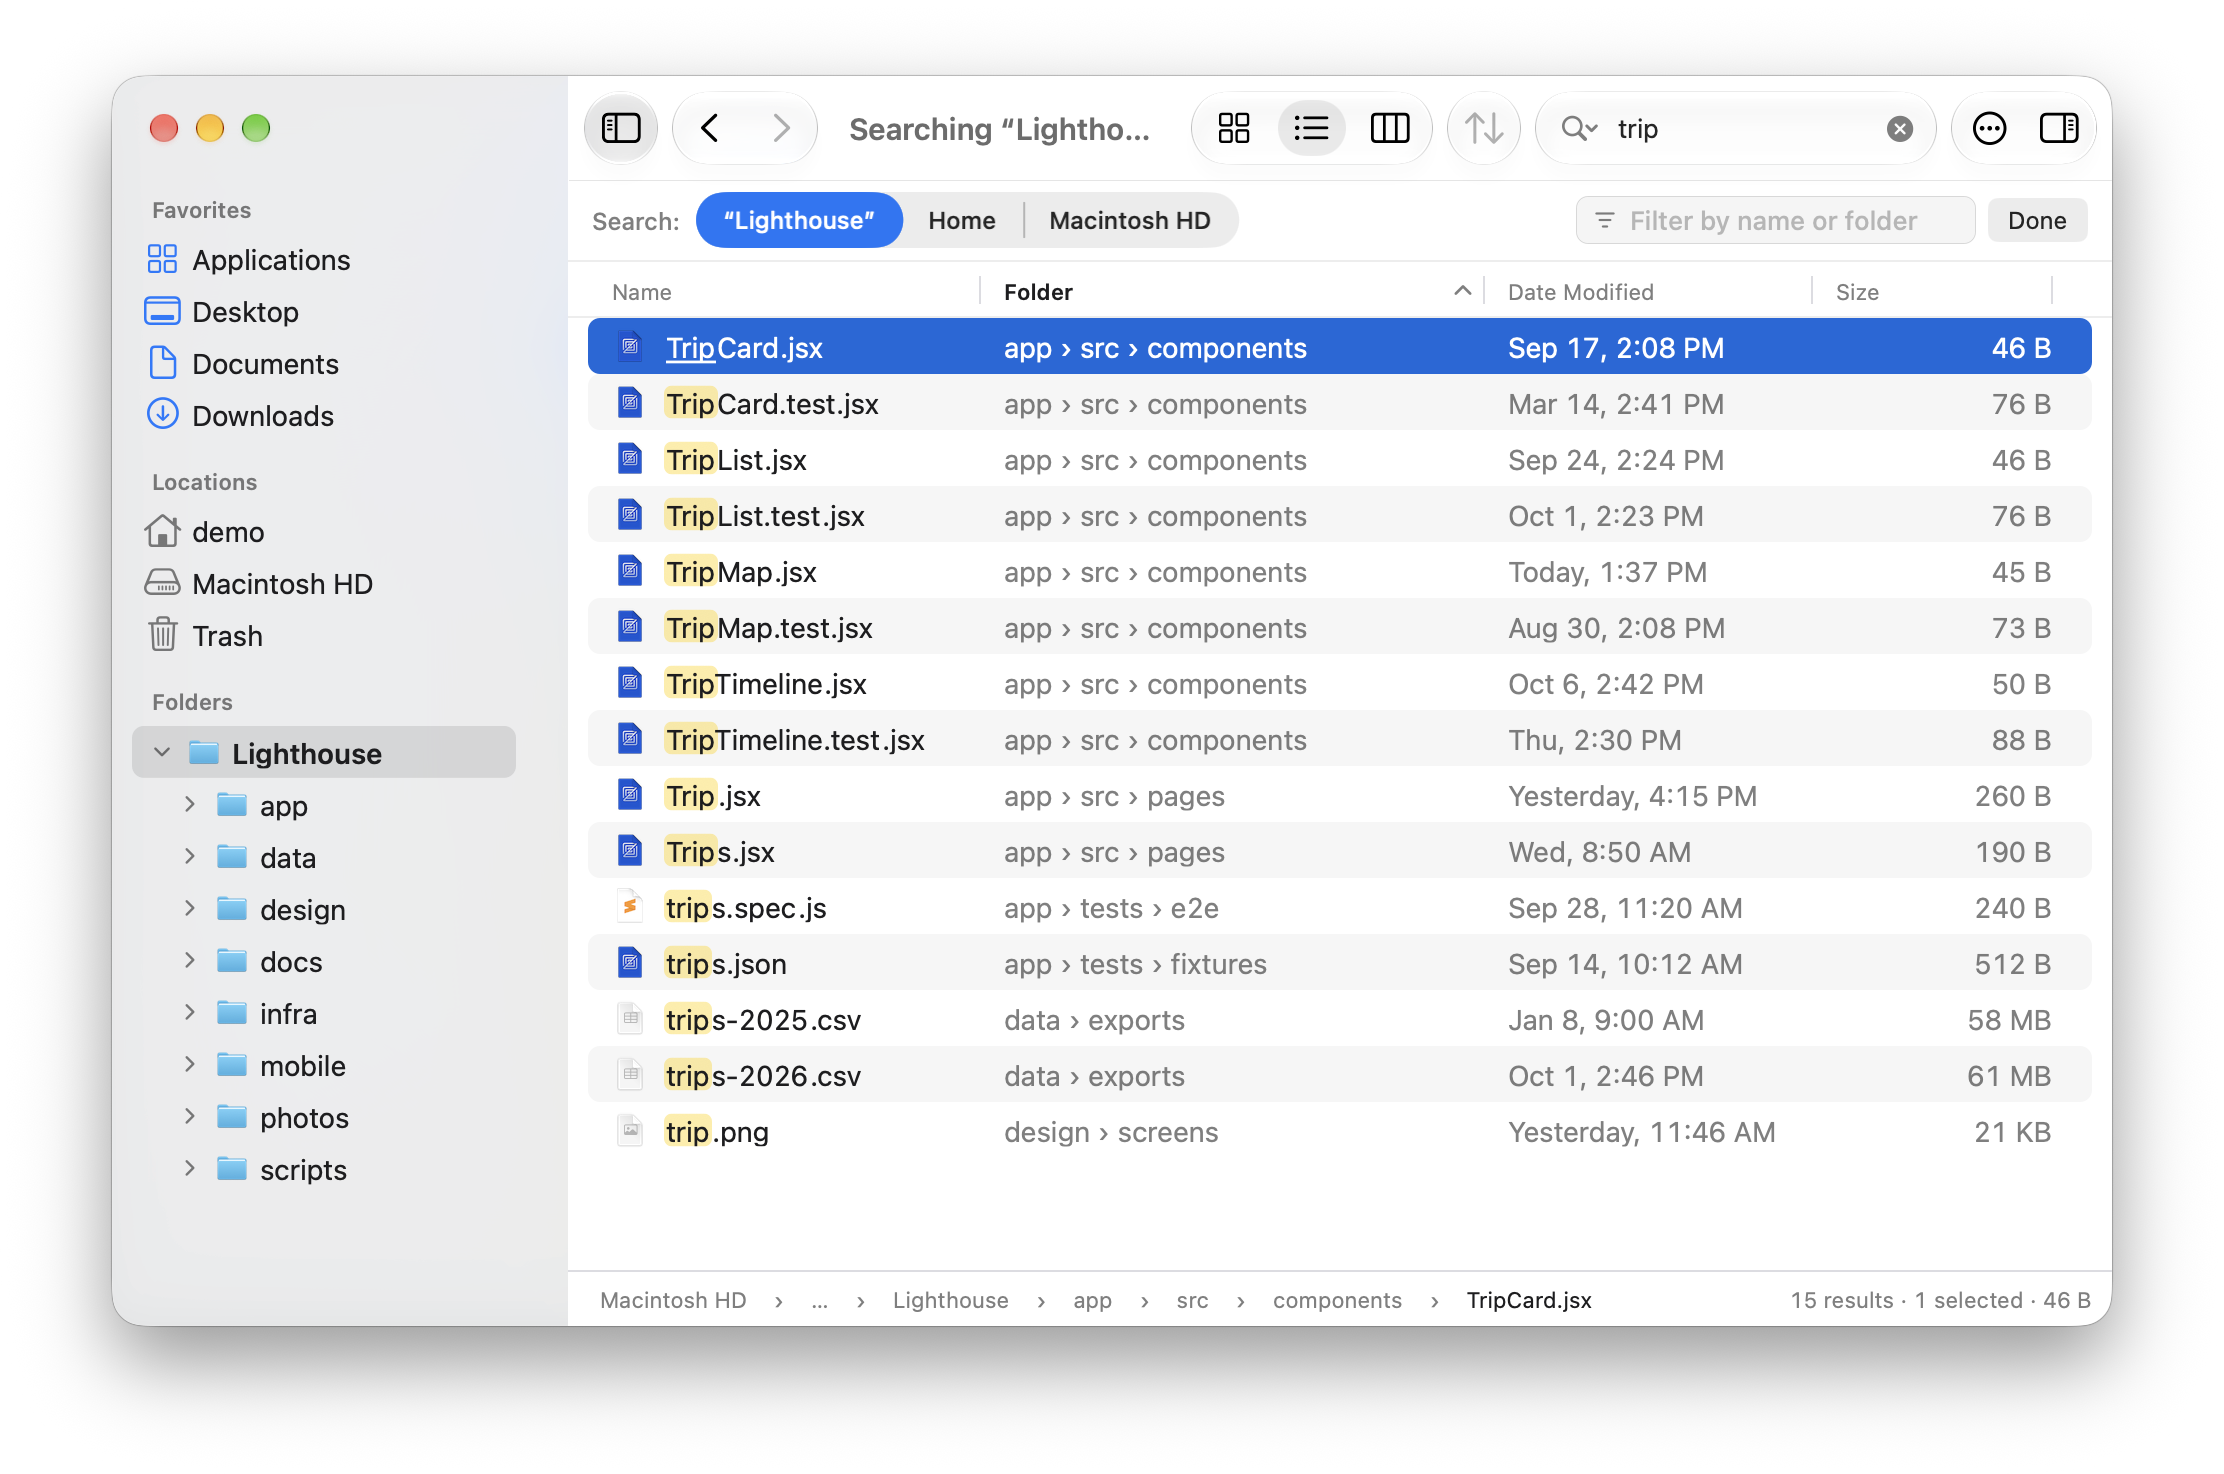
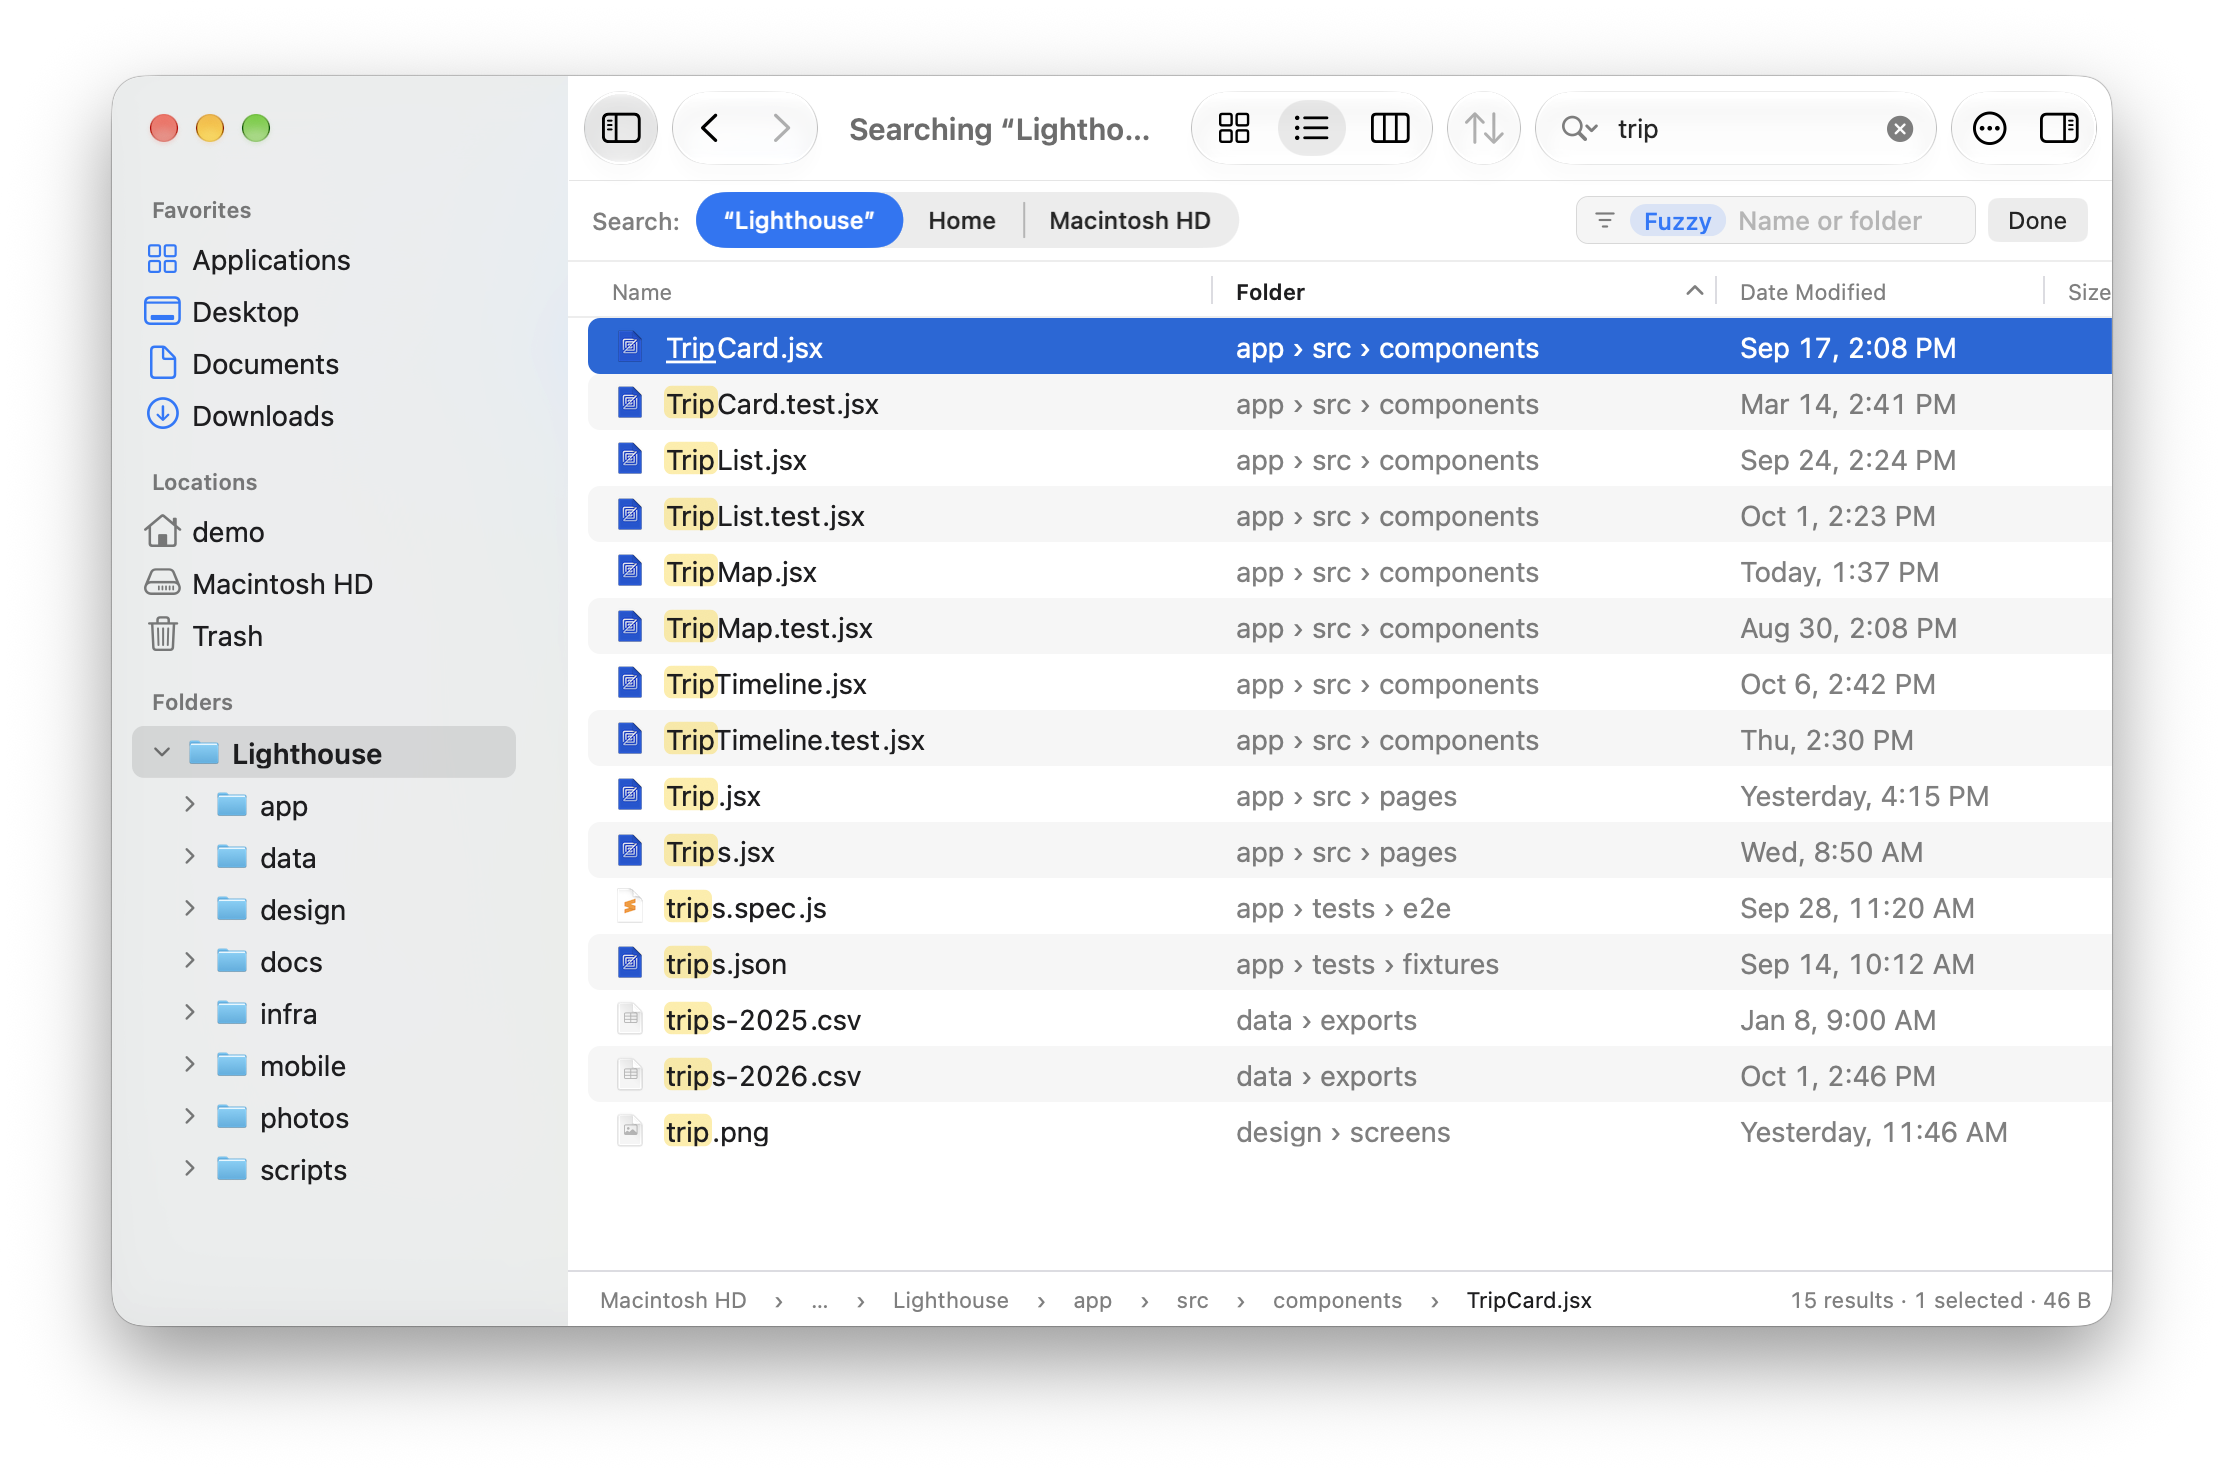
The README says how typing narrows a folder and how Plain Text search treats case and accents, with a screenshot of a fuzzy filter and the search screenshot taken again

diff --git a/README.md b/README.md
@@ -11,7 +11,7 @@ A Mac file browser with fast search, a real folder tree and true cut and paste. 
 - **Search that works, and is fast.** Results appear as you type, from the folder you are in, by name or full path, in plain text, glob or regex. There is no index to wait for, and nothing left out for not being indexed.
 - **A folder tree beside your files.** See where you are and what is around it, and open any folder's arrow to look inside without leaving.
 - **Cut and paste files.** ⌘X and ⌘V to move files. What you cut or copied stays marked until you paste it, and a paste never destroys anything: what it replaces goes to the Trash.
-- **Any folder in a few keystrokes.** ⌘K lists the folders you use most and finds any of them from a few letters. In a folder, start typing and the list narrows to the names that match.
+- **Any folder in a few keystrokes.** ⌘K lists the folders you use most and finds any of them from a few letters. In a folder, start typing and the list narrows to the names that have those letters in order.
 - **Keyboard first, with your keys.** Everything can be done from the keyboard, and every command can have a shortcut, two keys per command, that you choose. Only the keys every Mac app shares, like ⌘C, ⌘V, ⌘Z and ⌘Q, stay as they are.
 - **See what's taking the space.** Sort by size and every folder gets a bar, so the big ones stand out at a glance.
 - **Fast in big folders, and never stuck.** Scrolling stays smooth with thousands of files, and a slow or unresponsive disk never freezes the window.
@@ -23,8 +23,8 @@ Switching costs nothing. File Trail keeps most of Finder's shortcuts, Quick Look
 
 Finder hands search to Spotlight: by default it searches the whole Mac, it leaves out hidden and system files and anything excluded in Spotlight's settings, and matching a pattern means writing a raw Spotlight query. In File Trail, type in the search field and results appear as you type: everything under the folder you are in, each with the folder it lives in.
 
-- **Plain text by default.** Switch to glob (`*.test.ts`) or regex when you need a pattern, and match against the name or the full path.
-- **Widen or narrow without starting over.** One click moves the search from this folder to Home or the whole disk. The filter field trims what was found, by name or by folder, without searching again.
+- **Plain text by default.** Case doesn't matter, and a plain letter finds its accented forms: `resume` finds Résumé. Switch to glob (`*.test.ts`) or regex when you need a pattern, and match against the name or the full path.
+- **Widen or narrow without starting over.** One click moves the search from this folder to Home or the whole disk. The filter field trims what was found, by name or by folder, without searching again. A search stops at 50,000 results.
 - **Results in any view.** Icons, List or Compact List, with columns of their own that you choose and sort.
 - **It knows about Git.** Inside a repository, search can leave out `.git` and whatever `.gitignore` excludes, so build output stays out of the results.
 - **Nothing to set up.** Search runs on a bundled copy of [`fd`](https://github.com/sharkdp/fd). There is no index to build and nothing to install.
@@ -57,10 +57,14 @@ In Finder, moving files with the keyboard means ⌘C and then ⌥⌘V, and nothi
 </p>
 
 - **Go To (⌘K)** lists the folders you use most lately, with your favorites, and finds any folder you have opened from a few letters of its name. The folders you go to often come first, the way a browser's address bar ranks the sites you visit. Start with `/` or `~` to type a path, and Tab completes it.
-- **Type in the file list** to narrow it to the names containing what you typed. There is no field to click first: the best match is selected, Backspace edits what you typed, and Esc brings the rest back. Press ⌘F and the same text becomes a search of the subfolders.
+- **Type in the file list** to narrow it. A name is kept when it has the letters you type in that order, so `trptl` finds TripTimeline.jsx, and the letters it matched are marked. The chip in the filter's pill says Fuzzy; click it for Contains, which keeps only the names with the letters side by side (Settings → Browsing has the same choice). There is no field to click first: the best match is selected, Backspace edits what you typed and ⌥⌫ takes back a word, and Esc brings the rest back. Press ⌘F and the same text becomes a search of the subfolders.
 - **The path bar** is more than a label: click a folder to jump to it, click a `›` to see the folders at that level, or double-click the bar to edit the path as text.
 - **Back and Forward** remember more than one step. Hold either button to pick from the folders it leads to.
 - **The Go menu** has Home, Documents, Desktop, Downloads, Library, Macintosh HD, Applications and the Trash, like Finder's, each on a shortcut you choose.
+
+<p align="center">
+  <img src="docs/screenshots/filter.png" alt="A folder of components narrowed by typing trptl to TripTimeline.jsx and its test, the matched letters marked, with the filter pill saying Fuzzy and 2 of 14" width="900">
+</p>
 
 ## Keyboard first
 

diff --git a/docs/fuzzy-filter-plan.md b/docs/fuzzy-filter-plan.md
@@ -60,7 +60,7 @@ done this file is deleted and `docs/decisions.md` keeps what it decided.
       state's Search Subfolders button sat at the left of the Compact List in the phase 1 check: put it under the text.
 - [ ] **5. Space and ⌘Y.** The Space rule above (done); ⌘Y added to Quick Look's defaults (waits on the owner: it
       changes about 320 cases of three goldens a task didn't name, see the Log).
-- [ ] **6. README and screenshots.** The README says how typing filters now (letters in order, the marks, the mode
+- [x] **6. README and screenshots.** The README says how typing filters now (letters in order, the marks, the mode
       chip, Settings → Browsing) and that Plain Text search finds accented names from plain letters. A new README
       screenshot, `docs/screenshots/filter.png`, shows a fuzzy filter typed in a folder: the pill with its chip and
       count, the matched letters marked. Its scene goes in `tools/capture/readme/` and is taken with
@@ -102,3 +102,5 @@ Help, its golden and the tests change with the phase whose behavior they describ
   as a conflict), `prefs-sanitize.json` (19: an override giving ⌘Y elsewhere now keeps Quick Look's Space as an
   override of its own) and `help-content.json` (23: "Quick Look (Cmd+Y also works)"). The decisions ask for the owner's
   yes before changing goldens a task doesn't name, so ⌘Y waits for it.
+- 2026-11-14: Phase 6. `filter.png` is new (List view, "trptl" in the demo project's components folder); `search.png`
+  was taken again, its filter field now showing the chip. The other screenshots show no filter or search bar.
